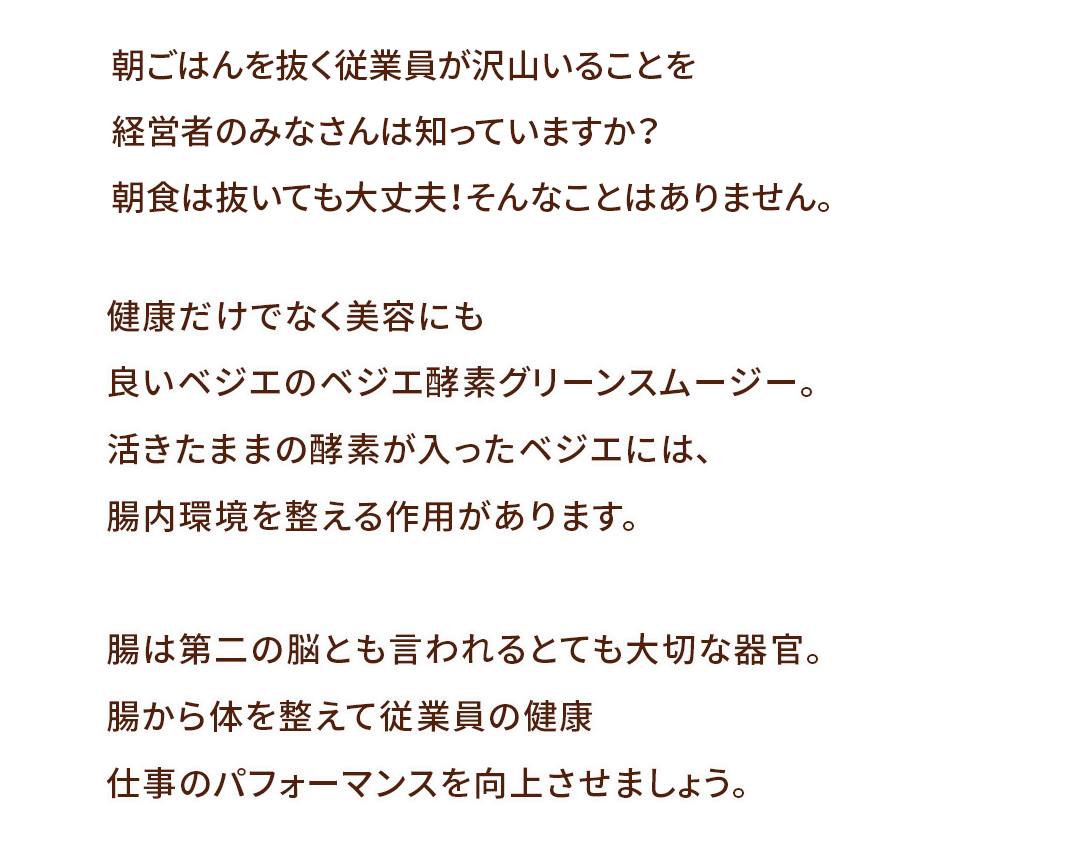
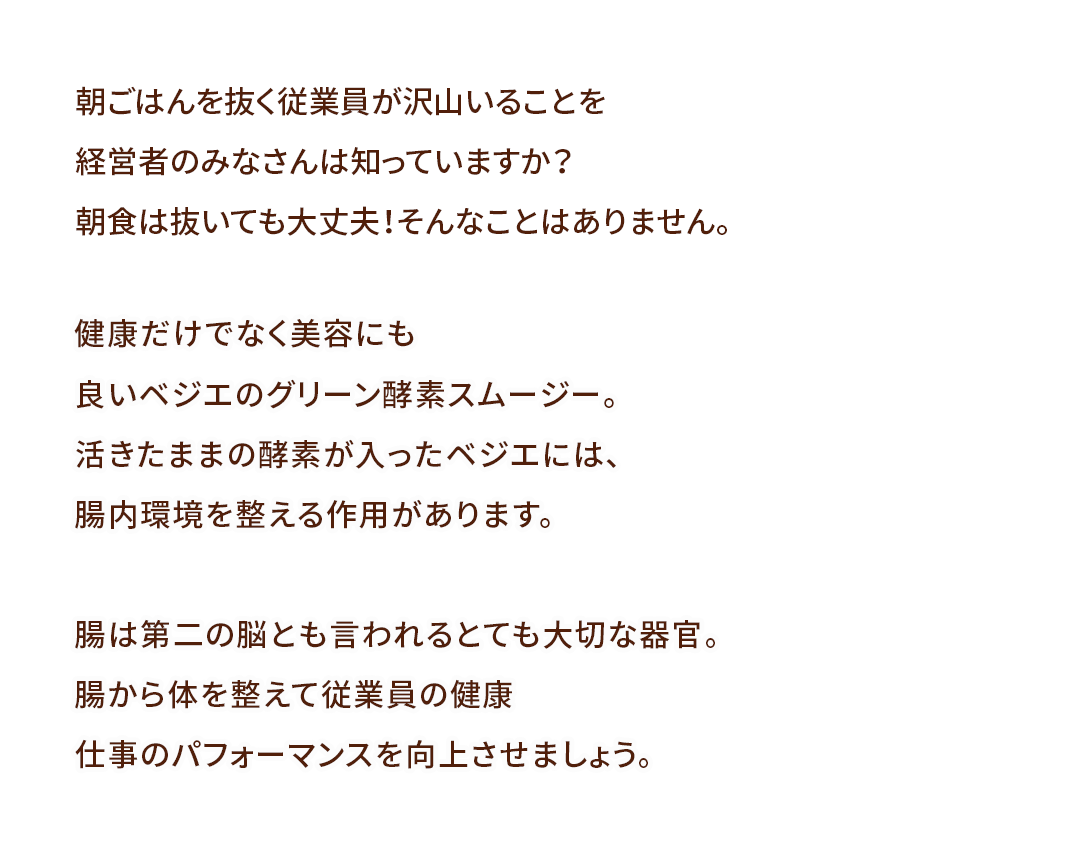
final submission

diff --git a/index.html b/index.html
@@ -2,7 +2,7 @@
 <html>
 
 <head>
-    <title>ベジエ　グリーン酵素スムージー</title>
+    <title>ベジエグリーン酵素スムージー</title>
     <meta charset="utf-8" />
     <meta name="viewport" content="width=device-width, initial-scale=1" />
     <!--[if lte IE 8]><script src="assets/js/ie/html5shiv.js"></script><![endif]-->
@@ -35,6 +35,7 @@
                 <center>
                     <img class="sp" src="images/btn_sp.png" width="80%" style="padding:1.5em 0;/">
                 </center>
+                
                 <div class="download-info">
                         <div class="left_btn"></div>
                         <div class="right_btn"></div>
@@ -44,20 +45,16 @@
                         <br><br>
                         <img class="pc"  src="images/image2_header.png"/>
                     <p>
-                        <br>
+                        <br> <br class="pc"> <br class="pc">
                         <span class="emphasis">従業員の健康管理</span>
-                        <br> 経営者にとって
-                        <br> とても重要な義務となっています
+                        <br> 経営者にとってとても重要な義務となっています。
                         <br> 健康でないと仕事のパフォーマンスも落ち、
                         <br> 会社全体の生産効率も下がります。
-                        <br> 農林水産省の調査によると
-                        <br>
+                        <br>調査によると<br class="pc">
                         <span class="emphasis">
-                     約30%くらいの人が<br>
-                     朝食をとらない<br>
-                     </span> と言われているようです
-                        <br> 朝食を取らないと言われています。
-                        <br>
+                     約30%の人が朝食をとらない<br class="pc">
+                    </span>と言われています。
+                        <br> <br class="pc">
                     </p>
                 </div>
                 <div class="download-info-2">
@@ -119,13 +116,10 @@
             <div class="disable">
                 <br>
                 <p class="ft120">
-                    朝ごはんを抜く従業員が沢山いることを 経営者のみなさんは知っていますか？
+                    朝ごはんを抜く従業員が沢山いることを経営者のみなさんは知っていますか？
                     <br>
-                    <br> 朝食は抜いても大丈夫！そんなことはありません。
-                    <br> 健康だけでなく美容にも 良いベジエのグリーン酵素スムージー。
-                    <br>
-                    <br> 生きたままの酵素が入ったベジエには、 腸内環境を整える作用があります。
-                    <br> 腸は第二の脳とも言われるとても大切な器官。
+                    <br> 朝食は抜いても大丈夫！そんなことはありません。健康だけでなく美容にも良いベジエのグリーン酵素スムージー。
+                    <br><br>生きたままの酵素が入ったベジエには、 腸内環境を整える作用があります。腸は第二の脳とも言われるとても大切な器官。
                     <br>
                     <br> 腸から体を整えて従業員の健康 仕事のパフォーマンスを向上させましょう。
                     <br>
@@ -160,13 +154,13 @@
                     </li>
                 </ul>
             </section>
-            <!-- 賞金-->
+            <!-- 賞品-->
             <section class="apply-list">
                 <header class="rules">
-                    <h2><i class="fa fa-circle-o" aria-hidden="true"></i>賞金</h2>
+                    <h2><i class="fa fa-circle-o" aria-hidden="true"></i>賞品</h2>
                 </header>
                 <ul class="default">
-                    <li class="disable">ベジエ酵素グリーン酵素スムージー 10袋</li>
+                    <li class="disable">ベジエグリーン酵素スムージー （１袋×20回分）× 50袋</li>
                 </ul>
             </section>
             <!-- 抽選発表-->
@@ -323,7 +317,6 @@
     <br>
     <br>
     <article class="five-col">
-    <center><img src="images/image5_header.png" width="30%"></center>
     <div class="container"></div>
     </article>
     <article class="five-col-sp">
@@ -338,11 +331,11 @@
                     <img class="boxshadow" src="images/image5_header_sec1.png" width="100%">
                 </center>
                 <li class="disable">
-                    ベジエの粉末は果汁を贅沢に使っています。 粉末処理をする際、熱がかかりますが 酵素は60度以上だと活性を失ってしまいます。 そこでベジエは,
-                    <span class="red">活きた酵素を粉末処理をした後に
-      注入しています。またベジエには180種類もの
-      野菜・果物・発酵エキスが含まれています!
-      </span>
+                        <span class="red">野菜、果物、野草、穀物、海藻など、
+                            180種類の野菜果物発酵エキスをフリーズドライ加工し、贅沢にたっぷり配合しています。</span> 
+                        現代人が不足しがちなビタミン1日分※を1杯（20g）で補えます。
+                        さらにミネラルもたっぷり。
+                        <small>※1日のビタミン量は栄養素等表示基準より算出しております。</small>
                 </li>
                 <br>
                 <br>
@@ -350,11 +343,11 @@
                     <img class="boxshadow" src="images/image5_header_sec2.png" width="100%">
                 </center>
                 <li class="disable">
-                    日本人の1日の 摂取野菜の種類の平均は3〜4種類。
-                    <span class="red">
-      「あ！今日は2種類の野菜しか
-      撮っていなかった！」
-      </span> そんな時もありませんか？
+                        「痩せたい」「キレイになりたい」は必須項目。
+                        <span class="red"> インナービューティーを考えてプラセンタを2,000mg*配合。
+                        ビューティーアップをサポートします。   </span> 
+                        ぷるぷるとハリと潤いのある毎日に欠かせないコラーゲンも
+                        200mg*配合しました。ダイエットも美容もこれ1杯でOK。   
                 </li>
                 <br>
                 <br>
@@ -362,12 +355,11 @@
                     <img class="boxshadow" src="images/image5_header_sec3.png" width="100%">
                 </center>
                 <li class="disable">
-                    野菜を満遍なく摂取するのは, 忙しい女性にはなかなか難しいもの。
-                    <span class="red">
-      そんな時でもベジエは朝に2t杯の粉末で
-      180種類もの野菜・果物・発酵エキス
-      が摂取できる、「美人フード」なんです。
-      </span>
+                        シェイカーなしでも溶けるように粉のつぶを大きめにしています。
+                        空気を取り込みやすくなるのでダマにもなりにくいのです。
+                        <span class="red">
+                        冷たい水でもサッと溶けるので、混ぜるだけでＯＫ。
+                        忙しい朝でも、10秒なら続けられます。</span>
                 </li>
                 <h1 class="line_btm">お客様からのお声</h1>
                 <!--voice1-->
@@ -381,6 +373,7 @@
                     <br> 今後はランチをこちらに切り替えて（今すごい食べちゃってるので・・）、 置き換えダイエットにも挑戦してみたいと思っています。
                     <br>
                     <br> 今まで飲んでいたスムージーよりもお値段がお手頃で、 ネットや近くの薬局などでも 入手しやすいのも良いと思いました。 今後はこちらをリピートしたいと思います～。
+                    <br>(30歳代　女性）
                 </li>
                 <!--voice2-->
                 <li class="disable" style="background-color:#faf7f7; padding:3em 2em ;">
@@ -389,8 +382,7 @@
                     <br> 牛乳で割って飲んでるからか飲みやすくて 朝ごはんとして愛用してます♪ 2週間続けているんですけど、
                     <br>
                     <br> 最近お通じが良くなったのはこの子のお陰かな？
-                    <br>
-                    <br> ※使用した商品:フリーズドライ加工で180種の酵素とプラセンタが入ったスムージー。
+                    <br>(20歳代　女性）
                 </li>
                 <!--voice3-->
                 <li class="disable" style="background-color:#faf7f7; padding:3em 2em ;">
@@ -400,7 +392,8 @@
                     <br>
                     <br> 溶け残りも無く　特殊パウダー製法なので 飲んだ後のグラスもお水ですすげば簡単に洗えます。
                     <br>
-                    <br> 置き換えするのにも良いですが日常の野菜不足を補え ビタミン、ミネラル、食物繊維コラーゲン、プラセンタまで 取れるので2,036円で10日分 簡単に飲めるのとサプリも不要だと考えるとお得です。
+                    <br> 置き換えするのにも良いですが日常の野菜不足を補え ビタミン、ミネラル、食物繊維コラーゲン、プラセンタまで 取れるので2,036円(税込)で10日分 簡単に飲めるのとサプリも不要だと考えるとお得です。
+                    <br>(40歳代　女性）
                 </li>
             </ul>
         </div>
@@ -481,7 +474,7 @@
                     <h2><i class="fa fa-circle-o" aria-hidden="true"></i>モニター規約・本規約</h2>
                 </header>
                 <ul class="default">
-                    <li class="disable"> <i class="fa fa-check fa-lg" aria-hidden="true"></i>会社の経営者様。(女性社員5名以上。)</li>
+                    <li class="disable"> <i class="fa fa-check fa-lg" aria-hidden="true"></i>会社の経営者様。</li>
                     <li class="disable"> <i class="fa fa-check fa-lg" aria-hidden="true"></i>1ヶ月間、ベジエグリーン酵素スムージーをお試しいただき、 SNSアカウントでの拡散、感想アンケートにお答えいただける方。
                     </li>
                     <li class="disable"> <i class="fa fa-check fa-lg" aria-hidden="true"></i>SNSアカウントをお持ちの方(Facebook、Twitter、Instagram)</li>
@@ -490,13 +483,13 @@
                     </li>
                 </ul>
             </section>
-            <!-- 賞金-->
+            <!-- 賞品-->
             <section class="apply-list">
                 <header class="rules">
-                    <h2><i class="fa fa-circle-o" aria-hidden="true"></i>賞金</h2>
+                    <h2><i class="fa fa-circle-o" aria-hidden="true"></i>賞品</h2>
                 </header>
                 <ul class="default">
-                    <li class="disable">ベジエ酵素グリーン酵素スムージー 10袋</li>
+                    <li class="disable">ベジエグリーン酵素スムージー （１袋×20回分）× 50袋</li>
                 </ul>
             </section>
             <!-- 抽選発表-->
@@ -532,9 +525,9 @@
                         <br>
                     </li>
                     <li class="disable">
-                        本規約第2項本キャンペーン開催要領に 定める応募条件を満たさない場合
+                        本規約第2項本キャンペーン開催要領に 定める応募条件を満たさない場合。
                         <br> または応募後に満たさなくなった場合、
-                        <br> 本キャンペーンについて、 複数のアカウントを作成するなどの不正な 行為を行った場合本規約に定められた 規約違反に準じる行為が発見された場合
+                        <br> 本キャンペーンについて、 複数のアカウントを作成するなどの不正な 行為を行った場合本規約に定められた 規約違反に準じる行為が発見された場合。
                         <br>
                     </li>
                 </ul>
@@ -709,7 +702,7 @@
                     <h2><i class="fa fa-circle-o" aria-hidden="true"></i>モニター規約・本規約</h2>
                 </header>
                 <ul class="default">
-                    <li class="disable"> <i class="fa fa-check fa-lg" aria-hidden="true"></i>会社の経営者様。(女性社員5名以上。)</li>
+                    <li class="disable"> <i class="fa fa-check fa-lg" aria-hidden="true"></i>会社の経営者様。</li>
                     <li class="disable"> <i class="fa fa-check fa-lg" aria-hidden="true"></i>1ヶ月間、ベジエグリーン酵素スムージーをお試しいただき、 SNSアカウントでの拡散、感想アンケートにお答えいただける方。
                     </li>
                     <li class="disable"> <i class="fa fa-check fa-lg" aria-hidden="true"></i>SNSアカウントをお持ちの方(Facebook、Twitter、Instagram)</li>
@@ -718,13 +711,13 @@
                     </li>
                 </ul>
             </section>
-            <!-- 賞金-->
+            <!-- 賞品-->
             <section class="apply-list">
                 <header class="rules">
-                    <h2><i class="fa fa-circle-o" aria-hidden="true"></i>賞金</h2>
+                    <h2><i class="fa fa-circle-o" aria-hidden="true"></i>賞品</h2>
                 </header>
                 <ul class="default">
-                    <li class="disable">ベジエ酵素グリーン酵素スムージー 10袋</li>
+                    <li class="disable">ベジエグリーン酵素スムージー （１袋×20回分）× 50袋</li>
                 </ul>
             </section>
             <!-- 抽選発表-->

diff --git a/assets/css/original.css b/assets/css/original.css
@@ -52,10 +52,10 @@ body {
     }
     h1 {
         color: #85313b;
-        padding: 1em 0;
+        padding: 2.5em 0;
         font-weight: 600;
         text-align: center;
-        font-size: 24px;
+        /*font-size: 24px;*/
         letter-spacing: 3px;
     }
     .sp-big {
@@ -69,6 +69,12 @@ body {
     }
     .pc-mg-100 {
         display: none;
+    }
+    .rules h2 i {
+        padding: 12px 10px !important;
+    }
+    .box :last-child {
+        margin-bottom:0px;
     }
 }
 /* ipad pro 1024*/
@@ -225,12 +231,12 @@ body {
         background: url("images/image2_bg_sp.jpg") repeat;
         background-size: cover;
         max-width: 100%;
-        height: 1000px;
+        height: 900px;
     }
     .second-col .container {
         width: 90%;
         margin: 1em 0 0 0 ;
-       /*  height: 980px;*/
+        height: 800px;
         background-size: contain;
         margin: 0 auto;
         background-color: white;
@@ -257,7 +263,7 @@ body {
         margin: 0;
         line-height: 0;
         letter-spacing: 0;
-        font-size: 60%;
+        font-size: 40%;
     }
     .download-info,
     .download-info-3 {
@@ -286,6 +292,7 @@ body {
         display: none;
     }
 }
+
 /*女性従業員の信頼を勝ち得る*/
 
 .three-col {
@@ -321,7 +328,7 @@ body {
     background: url("images/image4_bg.jpg") no-repeat;
     display: block;
     background-size: contain;
-    height: 980px;
+    height: 830px;
     background-position: top center;
 }
 /*ipad-*/
@@ -440,7 +447,7 @@ body {
 .cv_title {
     background-color: #85313b;
     color: white;
-    padding: 1em 3em 1em 3em;
+    padding: 1em 1.5em 1em 1.5em;
     text-align: center;
     margin: 0 auto;
     width: 80%;

diff --git a/sendEmail.php b/sendEmail.php
@@ -65,7 +65,8 @@ $body_customer = "
 </head>
 <body>
 <p>
-この度は「ベジエグリーン酵素スムージー無料トライアル企業キャンペーン」にご応募いただき、まことにありがとうございました。 <br>
+この度は「ベジエグリーン酵素スムージー無料トライアル企業キャンペーン」<br>
+にご応募いただき、誠にありがとうございました。<br>
 <br>
 下記内容のご応募が完了しましたので、ご連絡させていただきます。<br>
 <br>
@@ -95,12 +96,13 @@ $body_customer = "
 <br>
 応募者の中から抽選を行い、当選された方のみ本キャンペーンにご参加いただきます。<br>
 なお、当選のご連絡は、11月上旬に当選者に対してメールまたは電話にてご連絡いたします。<br>
-選考から漏れた方へのご連絡はいたしません。また、抽選過程に関するお問い合わせ、当落についてのお問い合わせには対応いたしかねますので、あらかじめご了承ください。<br>
+選考から漏れた方へのご連絡はいたしません。また、抽選過程に関するお問い合わせ、<br>
+当落についてのお問い合わせには対応いたしかねますので、あらかじめご了承ください。<br>
 <br>
 ベジエグリーン酵素スムージー無料トライアル企業キャンペーン窓口<br>
 株式会社KIYORA<br>
-東京都港区北青山3-5 はる木ビル3F<br>
-03-5414-5901（受付時間：10:00～17:00／土・日・祝日除く）<br>
+渋谷区恵比寿南1-14-10福隆ビル4階　<br>
+03-6412-5055（受付時間：10:00～17:00／土・日・祝日除く）<br>
 info@kiyora-inc.jp（受付時間：24時間）<br>
 <br>
 今後とも、ベジエ（ vegie ）をご愛顧頂けますよう、お願い申し上げます。<br>
